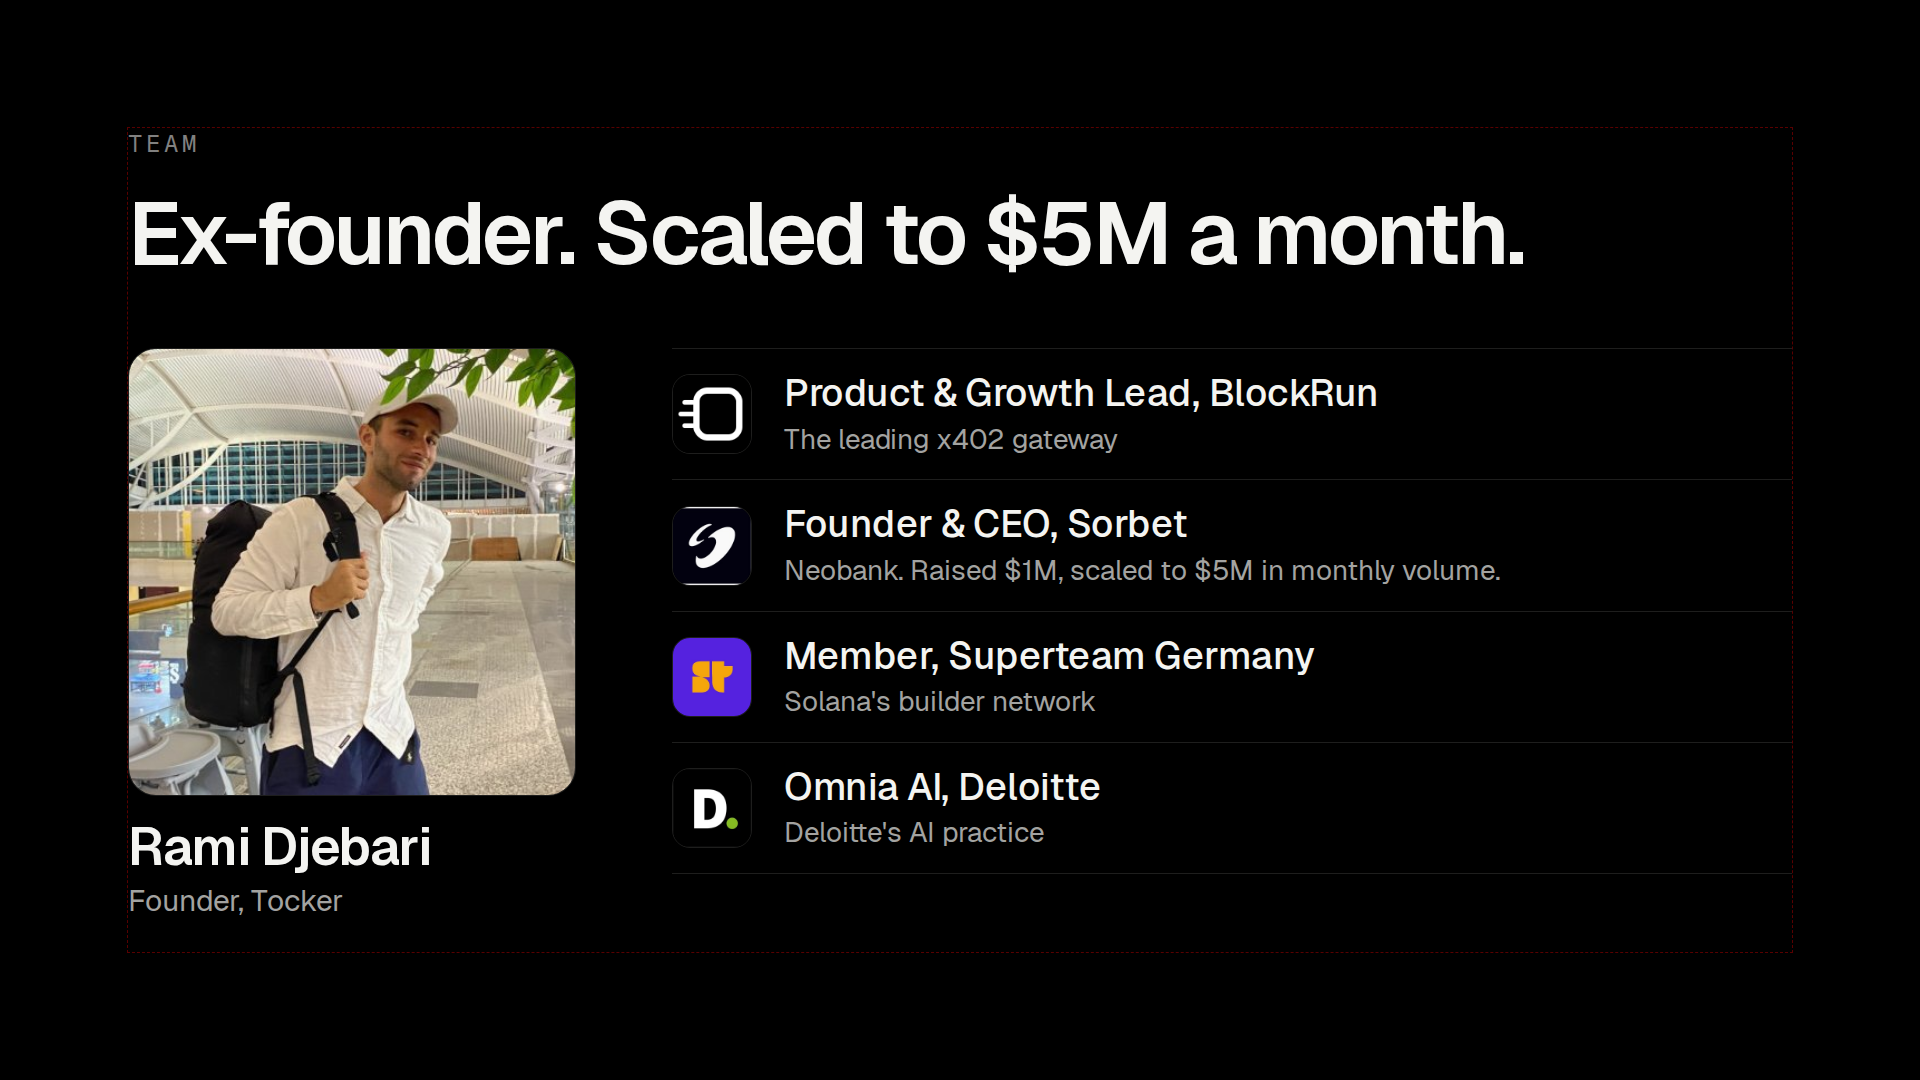
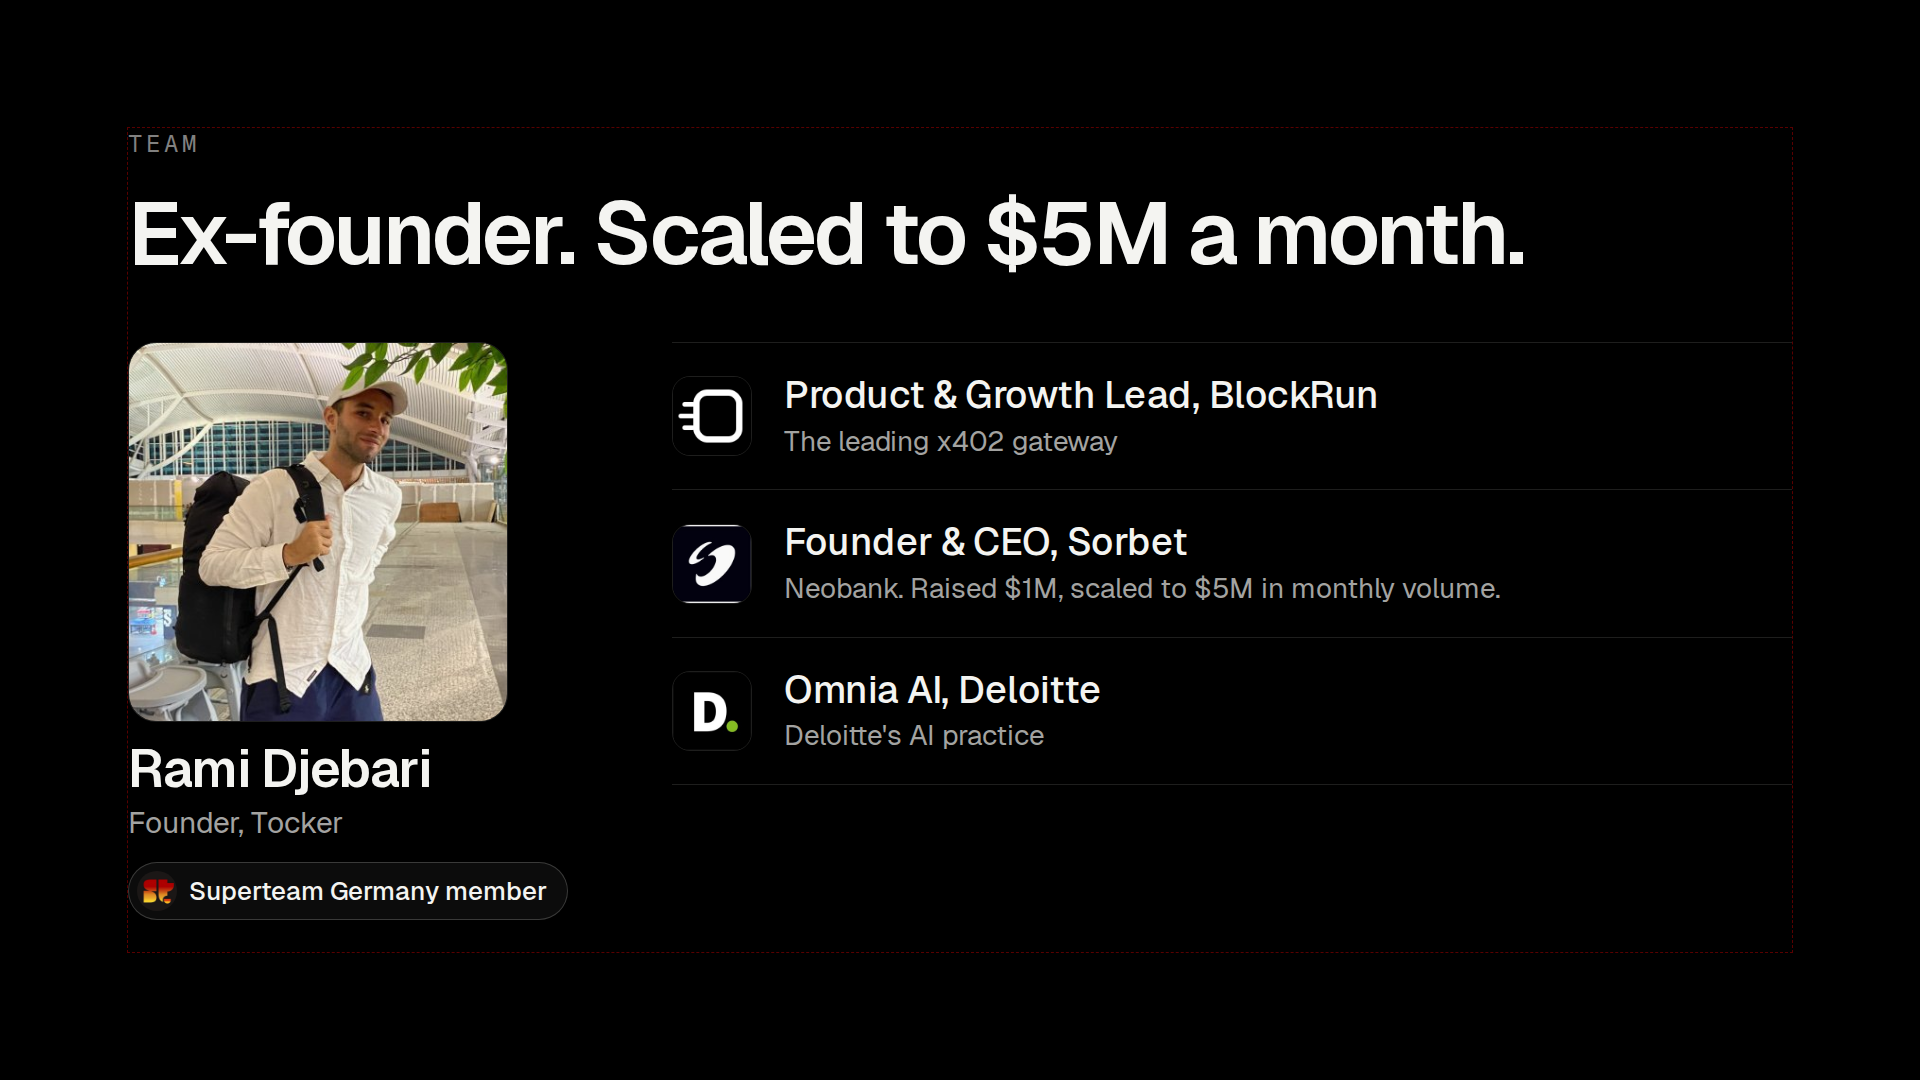
docs(pitch): Superteam Germany as a badge under the founder
Claude-Session: https://claude.ai/code/session_01C63X7bmiYFRUvieQLSha7b

diff --git a/docs/pitch/deck/build_simple_slides.py b/docs/pitch/deck/build_simple_slides.py
@@ -96,23 +96,26 @@ def team():
     rows = [
         ("/_blob/645c45990ef87d1be936649a1f600aca", "BlockRun logo", "Product & Growth Lead, BlockRun", "The leading x402 gateway"),
         ("/_blob/d965f9aa423f91f800a9ada66ef7722b", "Sorbet logo", "Founder & CEO, Sorbet", "Neobank. Raised $1M, scaled to $5M in monthly volume."),
-        ("/_blob/1a6766dfb70f34dd78b93e2c922fdd79", "Superteam logo", "Member, Superteam Germany", "Solana's builder network"),
         ("/_blob/37e07f7c17a3f955571e65fe76aee2f6", "Deloitte logo", "Omnia AI, Deloitte", "Deloitte's AI practice"),
     ]
     items = ""
     for i, (src, alt, title, sub) in enumerate(rows):
         last = f"; border-bottom:1px solid {HAIR}" if i == len(rows) - 1 else ""
-        items += (f'      <div style="display:flex; flex-direction:row; gap:32px; align-items:center; padding:22px 0; border-top:1px solid {HAIR}{last}">\n'
+        items += (f'      <div style="display:flex; flex-direction:row; gap:32px; align-items:center; padding:30px 0; border-top:1px solid {HAIR}{last}">\n'
                   f'        <img src="{src}" alt="{alt}" style="width:80px; height:80px; border:1px solid {HAIR}; border-radius:18px; object-fit:cover">\n'
                   f'        <div style="display:flex; flex-direction:column; gap:6px; flex:1">\n'
                   f'          <p style="{SANS}; font-size:38px; font-weight:500; line-height:1.15; letter-spacing:-0.5px; color:{FG}">{e(title)}</p>\n'
                   f'          <p style="{SANS}; font-size:28px; line-height:1.3; color:{MID}">{e(sub)}</p>\n'
                   f'        </div>\n      </div>\n')
-    left = (f'    <div style="width:448px; display:flex; flex-direction:column; gap:24px; flex:0 0 auto">\n'
-            f'      <img src="/_blob/6267b634bb7c763519614c99ac639862" alt="Portrait of Rami Djebari" style="width:448px; height:448px; border:1px solid {HAIR}; border-radius:28px; object-fit:cover">\n'
+    left = (f'    <div style="width:448px; display:flex; flex-direction:column; gap:20px; flex:0 0 auto">\n'
+            f'      <img src="/_blob/6267b634bb7c763519614c99ac639862" alt="Portrait of Rami Djebari" style="width:380px; height:380px; border:1px solid {HAIR}; border-radius:28px; object-fit:cover">\n'
             f'      <div style="display:flex; flex-direction:column; gap:6px">\n'
             f'        <p style="{SANS}; font-size:52px; font-weight:600; line-height:1.05; letter-spacing:-1.5px; color:{FG}">Rami Djebari</p>\n'
             f'        <p style="{SANS}; font-size:30px; color:{MID}">Founder, Tocker</p>\n'
+            f'      </div>\n'
+            f'      <div style="align-self:start; display:flex; flex-direction:row; gap:12px; align-items:center; padding:8px 20px 8px 8px; border:1px solid #f4f4f133; border-radius:256px; background:#f4f4f10d">\n'
+            f'        <img src="/_blob/6c238e3b11b30be29586010c2bb766ad" alt="Superteam Germany logo" style="width:40px; height:40px; border-radius:256px; object-fit:cover">\n'
+            f'        <p style="{SANS}; font-size:26px; font-weight:500; white-space:nowrap; color:{FG}">Superteam Germany member</p>\n'
             f'      </div>\n    </div>\n')
     right = f'    <div style="display:flex; flex-direction:column; flex:1">\n{items}    </div>\n'
     body = f'  <div style="display:flex; flex-direction:row; gap:96px; align-items:start">\n{left}{right}  </div>\n'

diff --git a/docs/pitch/pitch-3min.md b/docs/pitch/pitch-3min.md
@@ -4,7 +4,7 @@
 - **Edge** (new slide, replaces the x402 "alpha" slide): not prediction but not losing, in three steps. Refuse the rugs (gates in code), pick by your thesis (paid data, cents a token), exit by rule. Evidence: research/29, code: research/30.
 - **Proof** slide dropped (Oct 9): the gate audit and house cohort stay in Q&A 20 as the plan, not on a slide.
 - **Competition** (Oct 9): a capability matrix, "Six good teams. Each covers a piece." Six AI startups vs Tocker on runs 24/7 on its own, your rules and guardrails, rug veto in code, picks and pays for its data (x402), pays for its AI in USDC. Cells from research/26 §7 Autonomy and the README matrix. Don't say rivals aren't 24/7: ClawPump, Minara (autopilot), Senpi and Fere all run 24/7. The moat answer is Q&A 22.
-- **Pitch #2 feedback (Oct 9): too much text.** Problem, solution, edge and business are now big numbers with one tagline each. GTM drops the feed image: two acquisition channels (a $5K autonomous trading competition as a bounty on Earn; paid ads and cold DMs on X) and the expansion markets. New traction slide after GTM: 11 users, ~$2 in fees per user per day (founder's figures; ~$60 a month, so ~$660 MRR today), 334 users × $60 = $20K MRR. The GTM test is a Superteam Earn bounty. Team headline: "Ex-founder. Scaled to $5M a month.", with a Superteam Germany row (logo from github.com/SuperteamDAO).
+- **Pitch #2 feedback (Oct 9): too much text.** Problem, solution, edge and business are now big numbers with one tagline each. GTM drops the feed image: two acquisition channels (a $5K autonomous trading competition as a bounty on Earn; paid ads and cold DMs on X) and the expansion markets. New traction slide after GTM: 11 users, ~$2 in fees per user per day (founder's figures; ~$60 a month, so ~$660 MRR today), 334 users × $60 = $20K MRR. The GTM test is a Superteam Earn bounty. Team headline: "Ex-founder. Scaled to $5M a month.", with a Superteam Germany member badge under the founder (founder-supplied logo).
 - **Stale facts fixed:** the 0.5% fee is live (main #53), the beta is open, and the solution slide no longer says "sell-check data" (Solana has no sell test).
 Earlier competition designs: docs/pitch/deck/competition-angles/.
 
